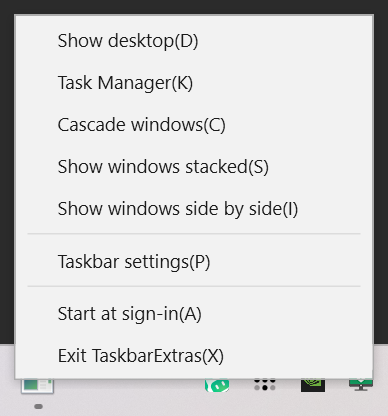
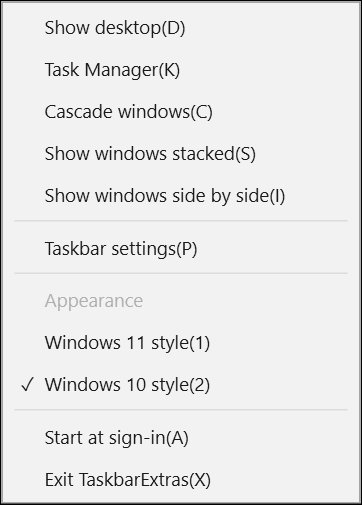
docs: document skin switching, refresh screenshots
All four README screenshots regenerated to show the new 外观 / Appearance group.
Three of them had been overwritten with desktop wallpaper pixels by a capture
script that used BitBlt on the desktop DC: the --preview menu closes the moment
anything steals focus, so by capture time the window was gone. PrintWindow with
PW_RENDERFULLCONTENT renders the window into a memory DC instead, which does not
need it foreground and does not move the mouse. The window is
AllowsTransparency=True, so the capture also gets cropped to the opaque region.

README (both languages) now answers "how do I switch" with the three routes, and
explains why switching restarts the process. The "No config file / 没有配置文件"
known issue is gone — there is one now.

DESIGN.md gains 7.4: StaticResource resolves once at load, so swapping the merged
dictionary under a live window is a silent no-op. Converting every brush to
DynamicResource would tax the render path that has to fit inside the hook's
300 ms budget, and destroying/recreating the window means re-homing the tray
icon, the hook and the single-instance lock. A 300 ms restart is the honest
option.

DESIGN.md 9 also had to be corrected: it described a schemaVersion'd config.json
with a data-driven items array that was never built. The shipped settings.json is
now documented as 9.0, with the original design kept as 9.0.1 and the reasons for
dropping items and schemaVersion written down.

diff --git a/docs/DESIGN.md b/docs/DESIGN.md
@@ -626,6 +626,32 @@ Win7 的 Aero 玻璃用 `DwmEnableBlurBehindWindow`。**这个 API 从 Windows 8
 
 **决策：Win7 Aero 皮肤先用 `DWMWA_SYSTEMBACKDROP_TYPE` + 静态渐变模拟。** 不引入未文档化 API —— 这是本项目的核心原则，皮肤不能破例。
 
+### 7.4 切换皮肤：为什么是重启而不是热切换（2026-10-10）
+
+皮肤加载发生在菜单窗口构造之前 —— `Current.Resources.MergedDictionaries` 先合并字典，再 `new ClassicMenuWindow()`。窗口里的画刷全是 `StaticResource`：
+
+```xml
+<Border Background="{StaticResource MenuBackgroundBrush}" ... />
+```
+
+`StaticResource` **只在加载时解析一次**，之后绑的就是那个具体的画刷对象。运行中把 `MergedDictionaries` 清掉换成另一套，已构造的窗口完全不受影响 —— 不报错，也没变化，是最难查的那种失败。
+
+三条路，选了第三条：
+
+| 方案 | 代价 | 结论 |
+|---|---|---|
+| 全局改 `DynamicResource` | 每个画刷引用都要改；`DynamicResource` 解析比 `StaticResource` 慢，而这个菜单要在钩子回调的 300ms 预算里渲染出来 | 为一个几乎不会被点的设置，给每次右键都加成本 |
+| 销毁窗口重建 | `Window` 重建 + 重新 `Show()`，还要处理托盘图标、钩子、单实例锁的归属 | 状态机复杂度暴涨 |
+| **重启进程** | 约 300ms，一次 | ✅ |
+
+重启还有个好处：它是**诚实的**。热切换如果哪里没覆盖到，用户看到的是「点了一下，一半变了」；重启则保证新皮肤走过的路径和刚开机时完全一致。
+
+`--skin`（本次运行）和 `--skin-set`（记住）分开，是因为前者是调试用的、后者才是用户设置。合并成一个的话，「我就想看一眼 win10 长什么样」会永久改掉默认值。
+
+**顺带解决了「设置活不过进程」的问题。** 在这之前 `--skin` 只在启动时读一次，进程一退就没了 —— 等于根本没有切换功能。现在写 `%APPDATA%\TaskbarExtras\settings.json`（skin + language，普通 JSON，文件损坏等同于不存在），`OnStartup` 里第一件事就是 `AppSettings.Load()`，因为语言和皮肤两个参数都要查它。
+
+优先级：**命令行 > 存储值 > 默认值**。`SkinFromArguments` 无参数时返回 `null` 而不是默认值 —— 这样 `ApplySkin` 才能区分「用户明确要 win11」和「用户什么都没说」，否则命令行永远无法覆盖存储的 win10。
+
 ---
 
 ## 8. 多显示器与 DPI
@@ -656,7 +682,28 @@ Win7 的 Aero 玻璃用 `DwmEnableBlurBehindWindow`。**这个 API 从 Windows 8
 
 ## 9. 配置
 
-`%APPDATA%\TaskbarExtras\config.json`（`System.Text.Json`，带 schema 版本号便于将来迁移）
+### 9.0 现状：`settings.json`（已实现，2026-10-10）
+
+实际落地的是最小可用版本，路径 `%APPDATA%\TaskbarExtras\settings.json`：
+
+```json
+{
+  "Skin": "win11",
+  "Language": null
+}
+```
+
+用 `System.Text.Json`，手写 `Model` 类。`null` 的 `Language` 表示「跟随系统」，与「用户选了 zh」区分开。
+
+三个刻意的选择：
+
+- **文件损坏等同于文件不存在。** 反序列化抛异常就吞掉、用默认值启动。配置文件不该让程序起不来 —— 用户手改坏了 JSON 是常见情况，而这只是个换皮肤的选项。
+- **`Save()` 返回 `bool`。** 写失败（磁盘满、权限）不是致命的，但不能假装成功。调用方把结果打到日志和 `--skin-set` 的输出里。
+- **没有 `schemaVersion`。** 下面那个 §9 的设计里写了，但两个字段的配置不值得版本号 —— 加字段时旧文件缺字段默认值就是对的，加字段本身也不会破坏。等真的要做破坏性迁移时再引入，那时才知道该迁移什么。
+
+**不做**（评估后放弃，理由留档）：`items` 自定义菜单项数组。它要求整个菜单从「代码里写死的八项」变成「数据驱动」，而现有 8 项里有一半要查询实时状态（自启状态、皮肤状态、UIA 快照），数据驱动反而更绕。等真的有人要这个功能再说。
+
+### 9.0.1 原设计（未实现，保留供参考）
 
 ```jsonc
 {

diff --git a/README.en.md b/README.en.md
@@ -53,7 +53,10 @@ TaskbarExtras.exe --quit              ask a running instance to stop
 TaskbarExtras.exe --autostart         report whether it starts at sign-in
 TaskbarExtras.exe --autostart on|off  turn that on or off
 TaskbarExtras.exe --lang zh|en        force the UI language (defaults to your system)
-TaskbarExtras.exe --skin win11|win10  menu appearance (defaults to win11)
+TaskbarExtras.exe --skin win11|win10  menu appearance for this run only
+TaskbarExtras.exe --skin-set win11|win10
+                                      change the default and remember it
+                                      (takes effect on the next launch)
 TaskbarExtras.exe --preview           show the menu once, for trying out a skin
 TaskbarExtras.exe --help              print this
 ```
@@ -91,14 +94,27 @@ Everything the menu looks like lives in a `ResourceDictionary`. A new skin is a 
 |---|---|
 | ![win11](docs/screenshot-win11-en.png) | ![win10](docs/screenshot-win10-en.png) |
 
-```bash
-TaskbarExtras.exe --preview --skin win10
-```
-
 The two are modelled on the real thing from their own era rather than being one design recoloured:
 
 - **win11**: near-white card, 8 px corners, soft shadow, neutral grey hover.
 - **win10**: flat `#F2F2F2`, **square corners**, a darker grey border, and the shortcut letter written into the label — `Task Manager(K)`. **Those letters actually work**; they are not decoration.
+
+### Switching
+
+**Right-click the empty taskbar → Appearance → pick one.** That's the whole procedure; it restarts itself.
+
+The tray icon carries the same Appearance submenu. That duplication is deliberate — whether the main menu opens at all depends on the mouse hook having installed, and the tray route does not.
+
+Two command-line flags, differing only in whether they remember:
+
+```bash
+TaskbarExtras.exe --skin-set win10    # change the default and remember it
+TaskbarExtras.exe --skin win10        # this run only, default untouched
+```
+
+The choice is stored in `%APPDATA%\TaskbarExtras\settings.json` and survives restarts.
+
+**Why does switching restart the process?** The skin is a dictionary merged in before the menu window is constructed, and the window's brushes reference it with `StaticResource` — resolved once at load, so swapping the dictionary underneath a live window does nothing. A switch in place would mean converting every brush reference to `DynamicResource`. A restart costs about 300 ms.
 
 ## Two rules
 
@@ -112,6 +128,7 @@ The reason is practical: tools built on injection have to be rewritten every tim
 
 - [ ] Animate the menu (fade in, slide out)
 - [ ] More skins
+- [ ] Switch skins in place (convert the brush references to `DynamicResource`, drop the restart)
 - [ ] A Windows 10 style Start menu
 - [ ] Live tiles
 
@@ -124,7 +141,7 @@ The reason is practical: tools built on injection have to be rewritten every tim
 
 - Only tested on a single 150%-scaled display. Dual monitors and mixed DPI are unverified.
 - About 40 ms between the right-click and the menu appearing — swallowing the click and then rendering can't be made free.
-- No config file. Skin and language are command-line only.
+- Changing skins restarts the process (see Skins above for why).
 - No compatibility handling for other taskbar tools; running them side by side may fight.
 - Telling "empty taskbar" apart from "an app button" needs UI Automation, because Windows 11 draws the task buttons with XAML and their positions exist nowhere in the window tree. The snapshot is rebuilt once a second. If UIA ever comes up empty it falls back to the old window-tree test, which can misjudge on Windows 11.
 - The letter shortcuts need the menu to hold keyboard focus. That works in practice; if it ever does not (the log says so), the letters go quiet while clicking still works.

diff --git a/README.md b/README.md
@@ -53,7 +53,9 @@ TaskbarExtras.exe --quit              让正在运行的实例退出
 TaskbarExtras.exe --autostart         看是否已设为开机自启
 TaskbarExtras.exe --autostart on|off  开 / 关开机自启
 TaskbarExtras.exe --lang zh|en        强制界面语言（默认跟随系统）
-TaskbarExtras.exe --skin win11|win10  菜单外观（默认 win11）
+TaskbarExtras.exe --skin win11|win10  本次运行的菜单外观
+TaskbarExtras.exe --skin-set win11|win10
+                                      改默认外观并记住（下次启动生效）
 TaskbarExtras.exe --preview           只显示一次菜单，用来预览皮肤
 TaskbarExtras.exe --help              显示说明
 ```
@@ -91,9 +93,22 @@ TaskbarExtras.exe --autostart off
 |---|---|
 | ![win11](docs/screenshot-win11-zh.png) | ![win10](docs/screenshot-win10-zh.png) |
 
+### 怎么切换
+
+**右键任务栏空白处 →「外观」→ 选一个。** 这就是全部操作，选完自己重启。
+
+托盘图标上也有同一个「外观」子菜单。是故意重复的 —— 主菜单能不能弹出来，取决于鼠标钩子有没有挂上；托盘那条路不依赖它，钩子出问题时还能用。
+
+命令行有两个，区别只在记不记住：
+
 ```bash
-TaskbarExtras.exe --preview --skin win10
+TaskbarExtras.exe --skin-set win10    # 改默认，记住，下次启动生效
+TaskbarExtras.exe --skin win10        # 只管这一次，不改默认
 ```
+
+选择存在 `%APPDATA%\TaskbarExtras\settings.json`，重启、关机都还在。
+
+**为什么切换要重启？** 皮肤是菜单窗口构造前合并进去的字典，而窗口里的画刷用的是 `StaticResource` —— 只在加载时解析一次，运行中换字典不会生效。想做成即时切换，得把每个画刷引用都改成 `DynamicResource`。重启大概 300ms，比改一遍 XAML 划算。
 
 两套是按各自年代的实物做的，不是同一套换个颜色：
 
@@ -112,6 +127,7 @@ TaskbarExtras.exe --preview --skin win10
 
 - [ ] 菜单加动画（淡入、滑出）
 - [ ] 做更多样式
+- [ ] 皮肤即时切换（把画刷引用改成 `DynamicResource`，省掉重启）
 - [ ] Windows 10 风格的开始菜单
 - [ ] 恢复磁贴
 
@@ -130,7 +146,7 @@ TaskbarExtras.exe --preview --skin win10
 
 - 只在单屏 150% 缩放上测过。双屏和混合 DPI 没验证。
 - 右键到菜单出来有约 40ms 延迟 —— 鼠标钩子拦下右键再渲染，这个开销消不掉。
-- 没有配置文件，皮肤和语言只能靠命令行参数。
+- 换皮肤要重启进程才能生效（原因见上面「皮肤」一节）。
 - 没做和其他任务栏工具的兼容，一起装可能打架。
 - 区分「右键的是任务栏空白处还是应用按钮」要靠 UI Automation（Windows 11 的任务按钮是 XAML 画的，位置不在窗口树里）。它每秒刷新一次快照。万一 UIA 读不到，会退回旧的窗口树判定，那种情况下在 Windows 11 上可能误判。
 - 字母快捷键要求菜单能拿到键盘焦点。绝大多数情况没问题；万一拿不到（日志里会写一行警告），字母不响应，但鼠标点击照常。
